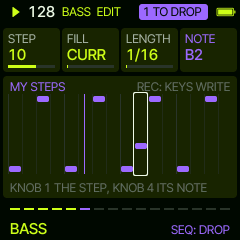
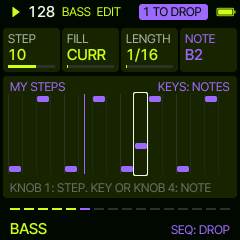
Sardine 0.8.17: EDIT: a key writes its note at the step and sounds as it is pressed, no REC needed
Claude-Session: https://claude.ai/code/session_01VgesZgNNDFiPGvKyDTZVUK

Changed region(s): [[0.2333, 0.7583, 0.875, 0.8167], [0.5542, 0.3208, 0.9625, 0.3792]]

diff --git a/firmware/src/sa_ui.c b/firmware/src/sa_ui.c
@@ -741,8 +741,7 @@ static void sv_panel_steps(sa_ui *u)
     char t[32];
     sa_pat_label(sv_ed(u), t, sizeof t);
     cv_free_text(10, 3, &AF_S, t, pend ? T_ACCENT : T_THEME, T_SURF, 150);
-    cv_text_r(230, 3, &AF_S, !u->rec ? "REC: KEYS WRITE" : sa_chordy(&o) ? "KEYS: CHORDS" : "KEYS: NOTES",
-              u->rec ? T_ACCENT : T_DIM, T_SURF);
+    cv_text_r(230, 3, &AF_S, sa_chordy(&o) ? "KEYS: CHORDS" : "KEYS: NOTES", T_ACCENT, T_SURF);
     int32_t y0 = 18, h = 80;
     for (int k = 0; k < 16; ++k) {
         int32_t x = 8 + k * 14;
@@ -771,7 +770,7 @@ static void sv_panel_steps(sa_ui *u)
         if (chord) for (int r = 0; r < 3; ++r) cv_rrect(x + 1, y0 + h / 2 - 12 + r * 9, w, 6, 2, c, T_SURF);
         else if (note) cv_rrect(x + 1, y0 + h - 8 - (o.sn[k] - lo) * (h - 10) / (hi - lo), w, 6, 2, c, T_SURF);
     }
-    cv_text_on(10, 104, &AF_S, u->rec ? "KNOB 1 THE STEP, A KEY ITS NOTE" : "KNOB 1 THE STEP, KNOB 4 ITS NOTE", T_DIM, T_SURF);
+    cv_text_on(10, 104, &AF_S, "KNOB 1: STEP. KEY OR KNOB 4: NOTE", T_DIM, T_SURF);
 }
 
 static void sv_panel_gate(sa_ui *u)
@@ -2171,14 +2170,19 @@ void sv_key(sa_ui *u, int note, bool down)
             return;
         }
     }
-    if (lay && u->rec) {
-        if (sv_steps_on(u)) {                      /* a synth layer's step: the key's note (CHORD: the chord) */
-            if (!down) return;
+    if (lay && (u->rec || u->page == SV_PG_EDIT) && sv_steps_on(u)) {
+        /* a synth layer's step (EDIT, or REC): the key's note there (CHORD: the chord), heard as it is pressed */
+        if (down) {
             sa_step_note(u->g, u->layer, sv_clampi(u->scur, 0, 15), note + 12 * u->oct);
             u->scur = (u->scur + 1) % 16;
             u->changed = true;
-            return;
+            u->key_sent[k] = note + 12 * u->oct;
+            sa_key(u->g, k, u->key_sent[k], true, layer);
+        } else if (u->key_sent[k] >= 0) {
+            sa_key(u->g, k, u->key_sent[k], false, layer);
+            u->key_sent[k] = -1;
         }
+        return;
     }
     if (lay && u->view == SV_V_DRUMS) {            /* DRUMS: every key plays the drum picked */
         if (u->g->ed[u->layer].type != SA_T_DRUM) return;

diff --git a/tests/sa_ui_test.c b/tests/sa_ui_test.c
@@ -483,6 +483,15 @@ int main(int argc, char **argv)
         sv_knob(&ui, SV_K3, -20);
         CHECK(c->sn[9] == SA_NO_NOTE, "LENGTH below 1: the note goes");
     }
+    {   /* EDIT, no REC: a key writes its note at the step too, and sounds */
+        sv_knob(&ui, SV_K1, 11 - ui.scur);
+        int b0 = part_on[SA_L_BASS];
+        sv_key(&ui, 62, true);
+        run_ms(20);
+        CHECK(!ui.rec && g.ed[SA_L_BASS].sn[11] != SA_NO_NOTE && ui.scur == 12 && part_on[SA_L_BASS] > b0,
+              "EDIT: a key writes its note on the step and sounds (REC not needed)");
+        sv_key(&ui, 62, false);
+    }
     sv_knob(&ui, SV_K1, 5 - ui.scur);
     press(SV_B_REC);
     sv_key(&ui, 60, true);

diff --git a/firmware/src/sa_version.h b/firmware/src/sa_version.h
@@ -2,5 +2,5 @@
 /* Sardine's version: the splash, MENU, the package and the release (the workflow reads SA_VERSION here) */
 #ifndef SA_VERSION_H
 #define SA_VERSION_H
-#define SA_VERSION "0.8.16"
+#define SA_VERSION "0.8.17"
 #endif

diff --git a/docs/MANUAL.md b/docs/MANUAL.md
@@ -1,6 +1,6 @@
 # Sardine manual
 
-Sardine 0.8.16. Live club mixing on the FM-1: four layers, always there, each one on or OFF: **LEAD**, **CHORD**,
+Sardine 0.8.17. Live club mixing on the FM-1: four layers, always there, each one on or OFF: **LEAD**, **CHORD**,
 **BASS** and **DRUMS**. A layer is a sound and a pattern, bent by modifiers. Its sound, filter, pan and level act at
 once, as you turn; its pattern, steps and modifiers wait, in the second colour, until **SEQ** drops them in on the
 one: the next bar line.
@@ -160,12 +160,13 @@ PULSE, 8THS, 16THS, DOTTED, HOLD. **KNOB 3** is the step's LENGTH (on DRUMS its 
 note goes. **KNOB 4** is its **NOTE**: on an empty step it puts a note there (the note before it, else the root), turned
 on it moves it up or down the scale (on CHORD: right the chord on, left off).
 
-Setting a note, step by step: **EDIT**, KNOB 1 to the step, KNOB 4 to the note, KNOB 3 for how long; or REC on and a key.
+Setting a note, step by step: **EDIT**, KNOB 1 to the step, then a key (heard as you press it; the step moves on) or
+KNOB 4 to the note, KNOB 3 for how long.
 
-With **REC** on, LEAD, BASS and CHORD: a key writes at the framed step (the note snapped to the scale, the same note
+In EDIT (and with **REC** on, on the layer's pages too), LEAD, BASS and CHORD: a key writes at the framed step (the note snapped to the scale, the same note
 again takes it off; on CHORD the chord) and the frame moves on. DRUMS: the 16 lowest keys are the steps, glowing dim,
-the hits set full; a key turns its step on or off, the keys above play the drum. Without REC the keys play the layer,
-lit with what it plays. Like a pattern, the steps wait for SEQ. EDIT again goes back.
+the hits set full; a key turns its step on or off, the keys above play the drum. Without REC the drum keys play the
+drum, lit with what it plays. Like a pattern, the steps wait for SEQ. EDIT again goes back.
 
 ## DRUMS
 

diff --git a/README.md b/README.md
@@ -59,7 +59,7 @@ second colour, until SEQ drops them in on the one.
 
 ## Install
 
-Version 0.8.16: [install it on the FM-1](https://delirioux.github.io/sardine/install/) from Chrome or Edge (Web MIDI), with
+Version 0.8.17: [install it on the FM-1](https://delirioux.github.io/sardine/install/) from Chrome or Edge (Web MIDI), with
 the FM-1 on USB, or [try it in the browser](https://delirioux.github.io/sardine/try/) first. The `dev` branch's test
 build: [install](https://delirioux.github.io/sardine/dev/install/), [try](https://delirioux.github.io/sardine/dev/try/).
 Installing firmware is at your own risk; Felucca's [installer](https://hugelton.github.io/Felucca/webapp/installer/)

diff --git a/docs/RELEASE.md b/docs/RELEASE.md
@@ -1,4 +1,4 @@
-Sardine 0.8.16: live club mixing for the FM-1.
+Sardine 0.8.17: live club mixing for the FM-1.
 
 - Four layers, always there, each on or OFF: LEAD, CHORD, BASS and DRUMS. PRESETS goes from one to the next, FX
   through a layer's pages (MIX: VOLUME TYPE INSTR MUTE, ARP, PAN, 3D, PUMP, GATE, MOD; DRUMS: MIX, KIT, MOD), HOME back to them all

diff --git a/docs/ROADMAP.md b/docs/ROADMAP.md
@@ -1,6 +1,6 @@
 # The road to 1.0
 
-Sardine 0.8.16 has everything planned for 1.0. What is left is listening on the FM-1 and tuning what it shows.
+Sardine 0.8.17 has everything planned for 1.0. What is left is listening on the FM-1 and tuning what it shows.
 
 ## To check on the FM-1
 
